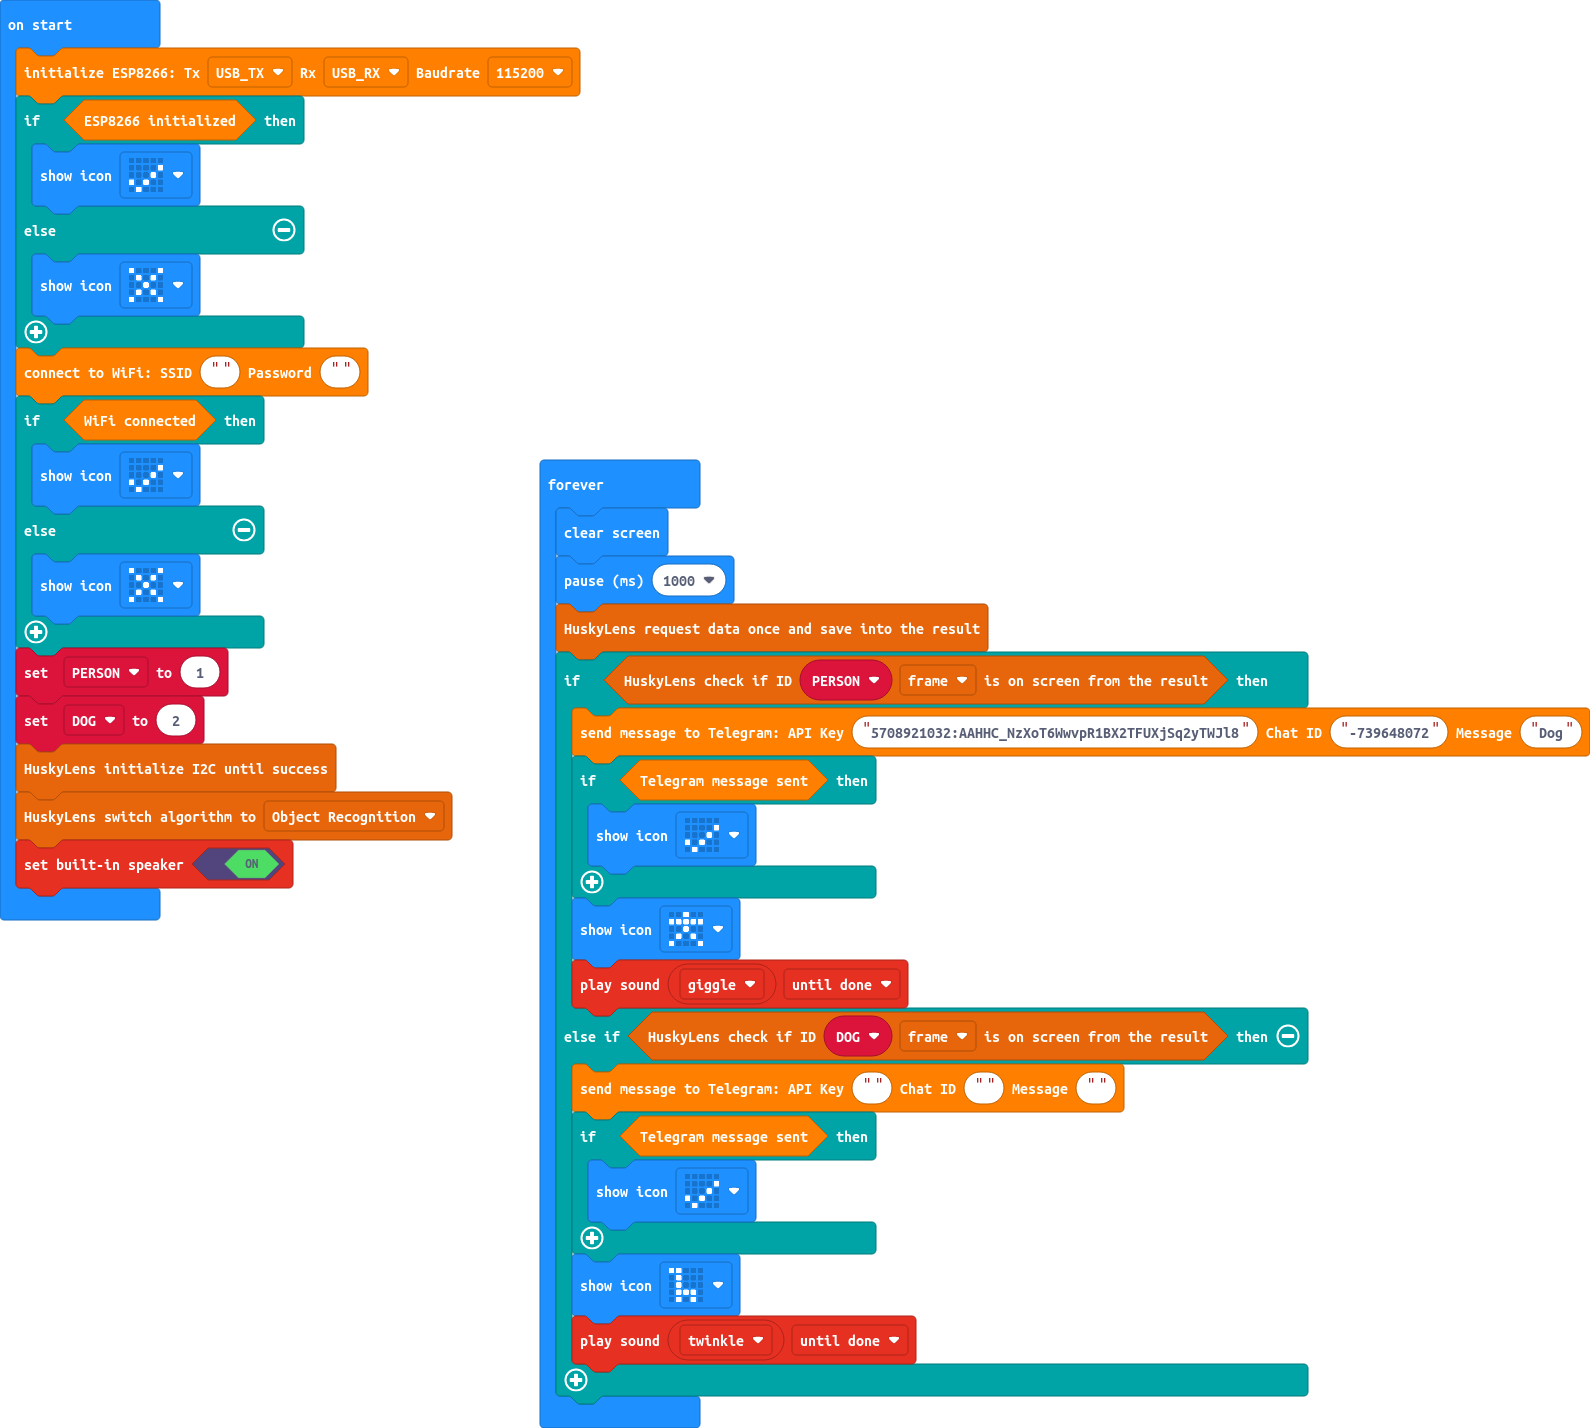
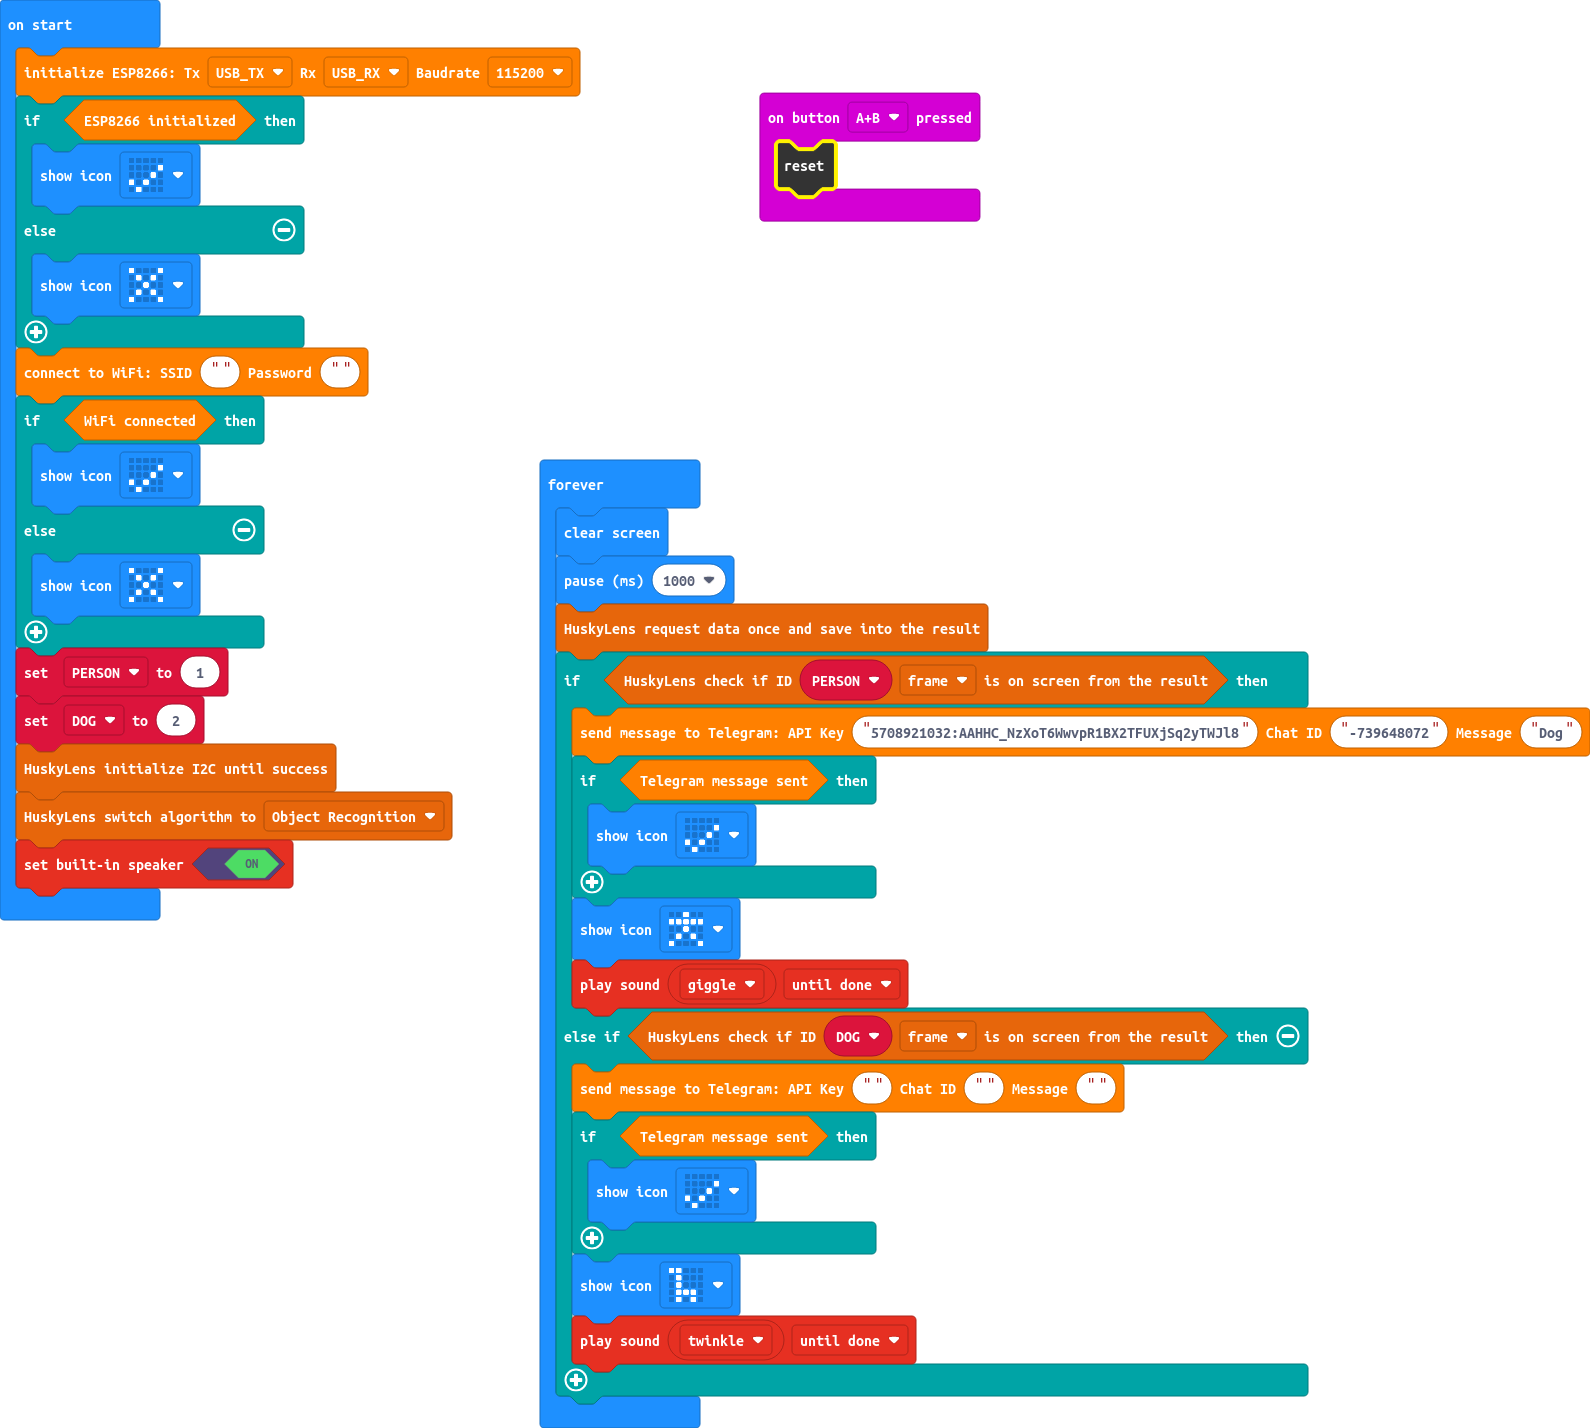
Update main.blocks, main.ts

Changed region(s): [[0.4623, 0.0616, 0.6164, 0.1541]]

diff --git a/main.ts b/main.ts
@@ -1,3 +1,6 @@
+input.onButtonPressed(Button.AB, function () {
+    control.reset()
+})
 esp8266.init(SerialPin.USB_TX, SerialPin.USB_RX, BaudRate.BaudRate115200)
 if (esp8266.isESP8266Initialized()) {
     basic.showIcon(IconNames.Yes)
